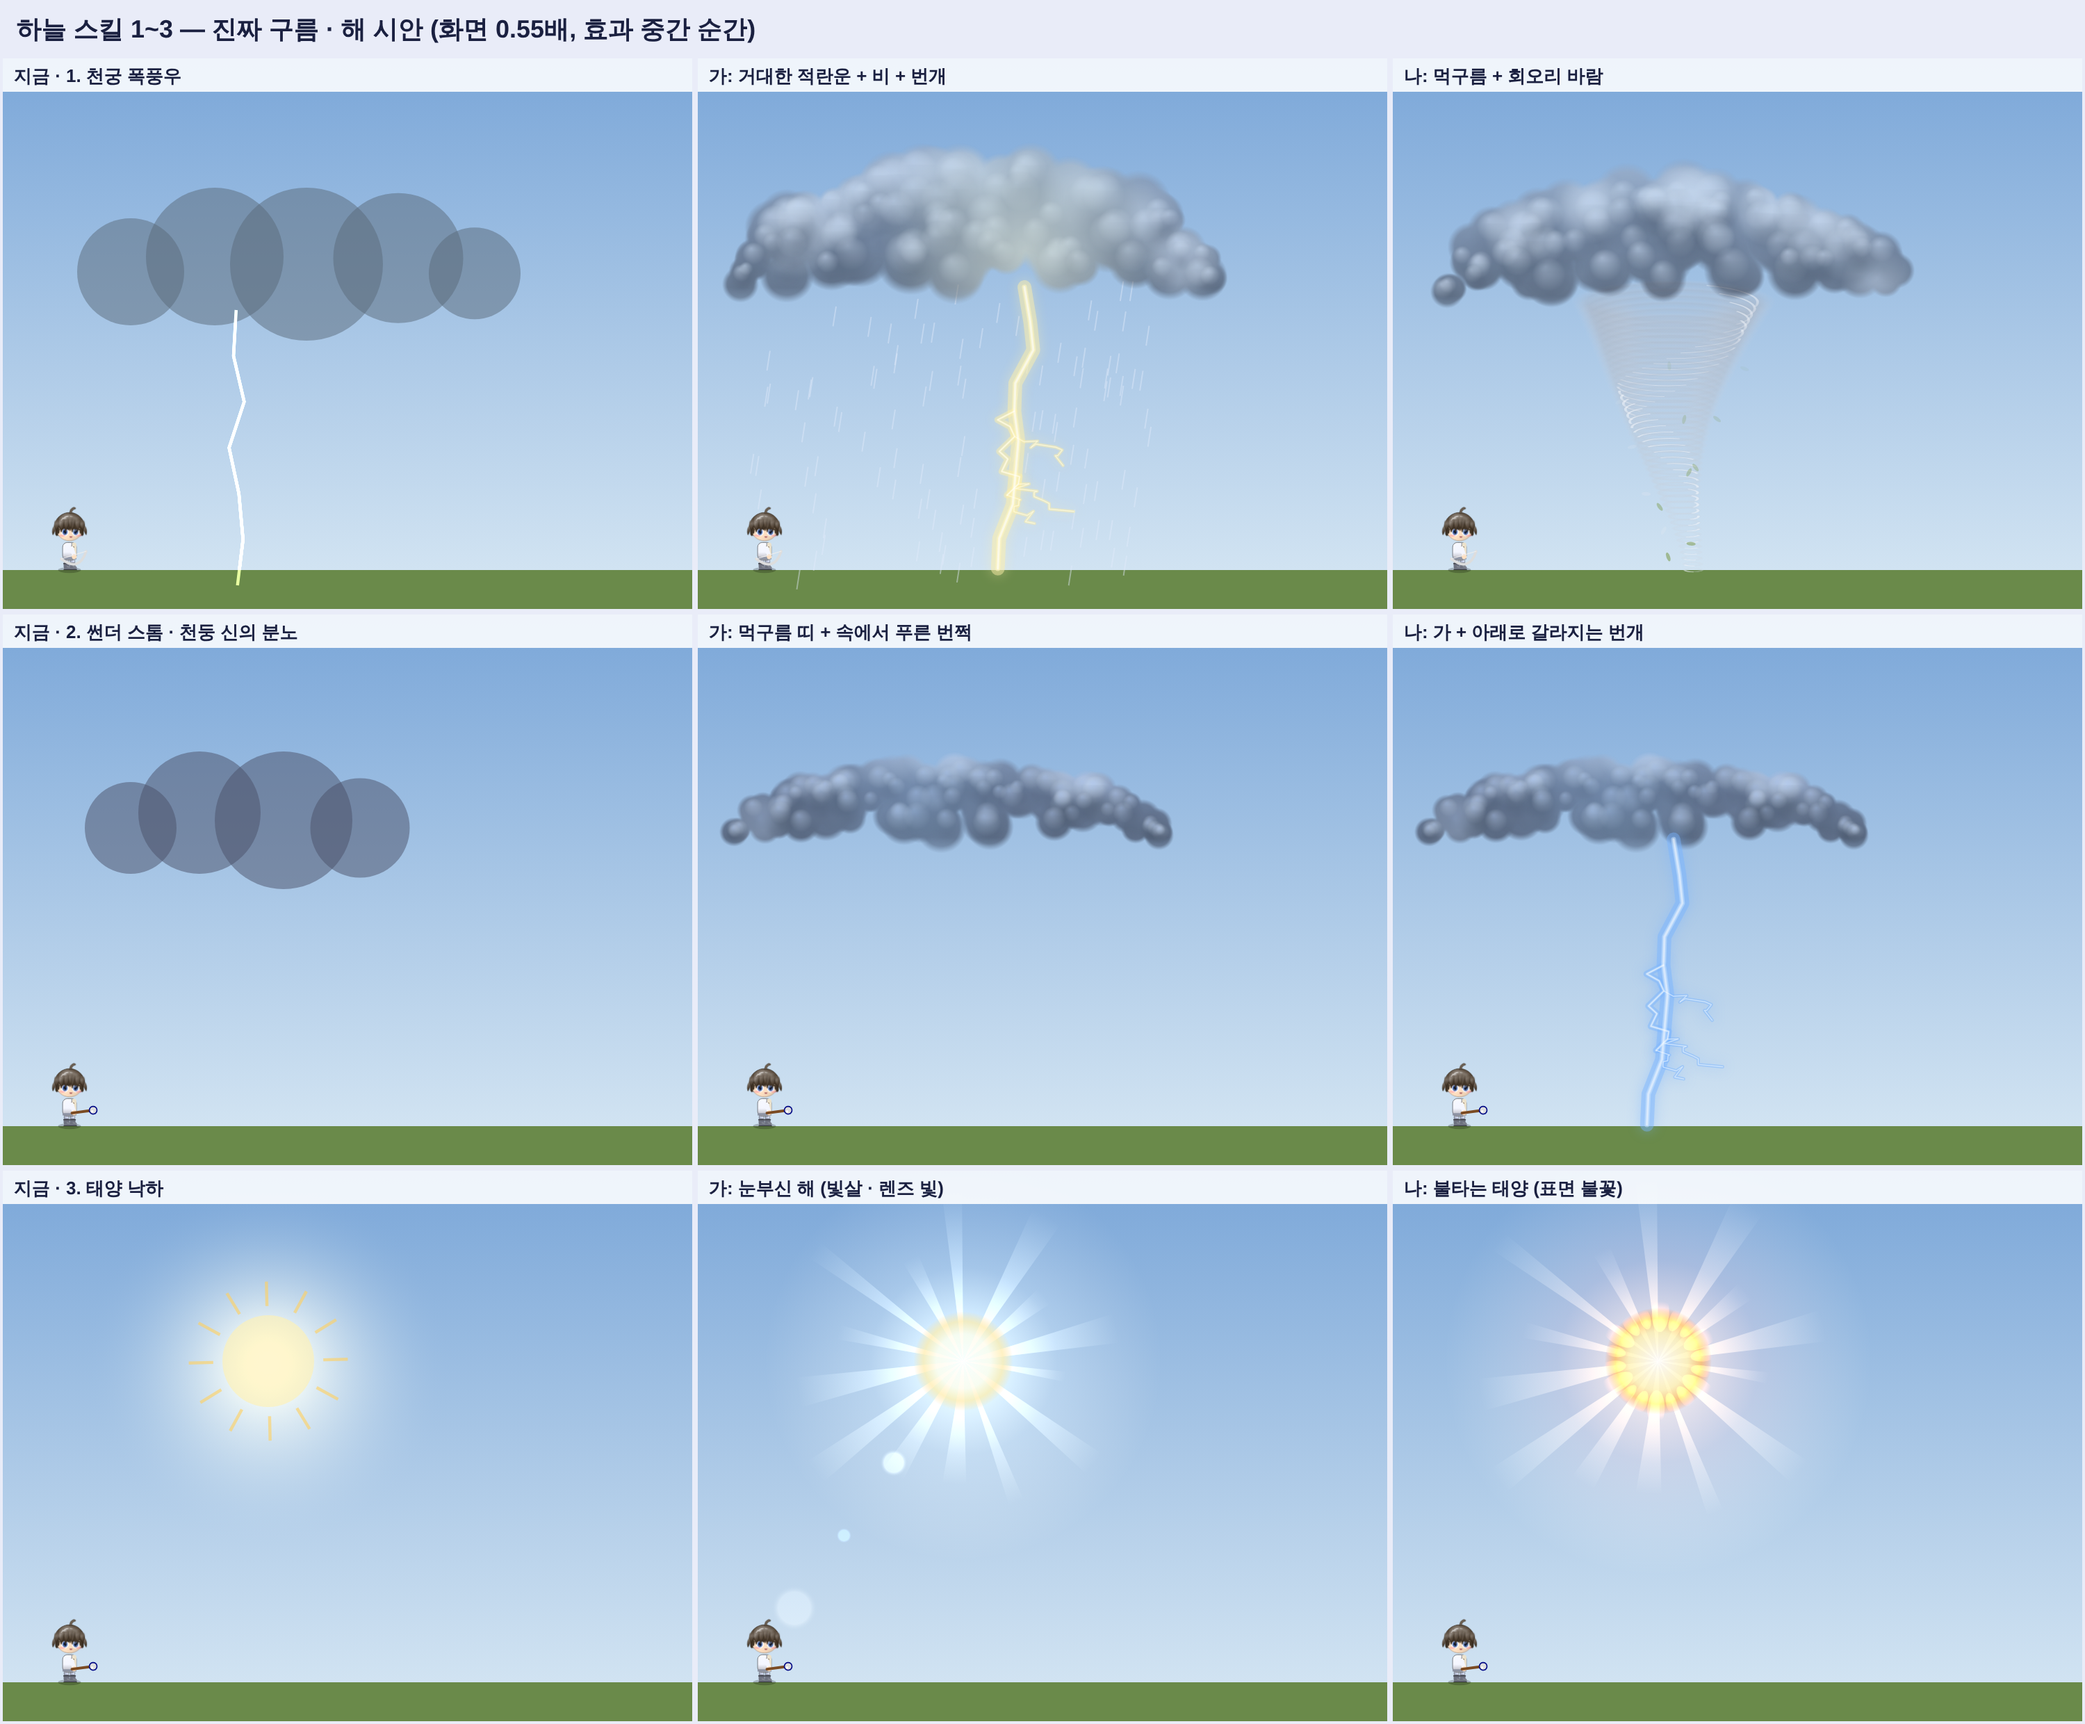
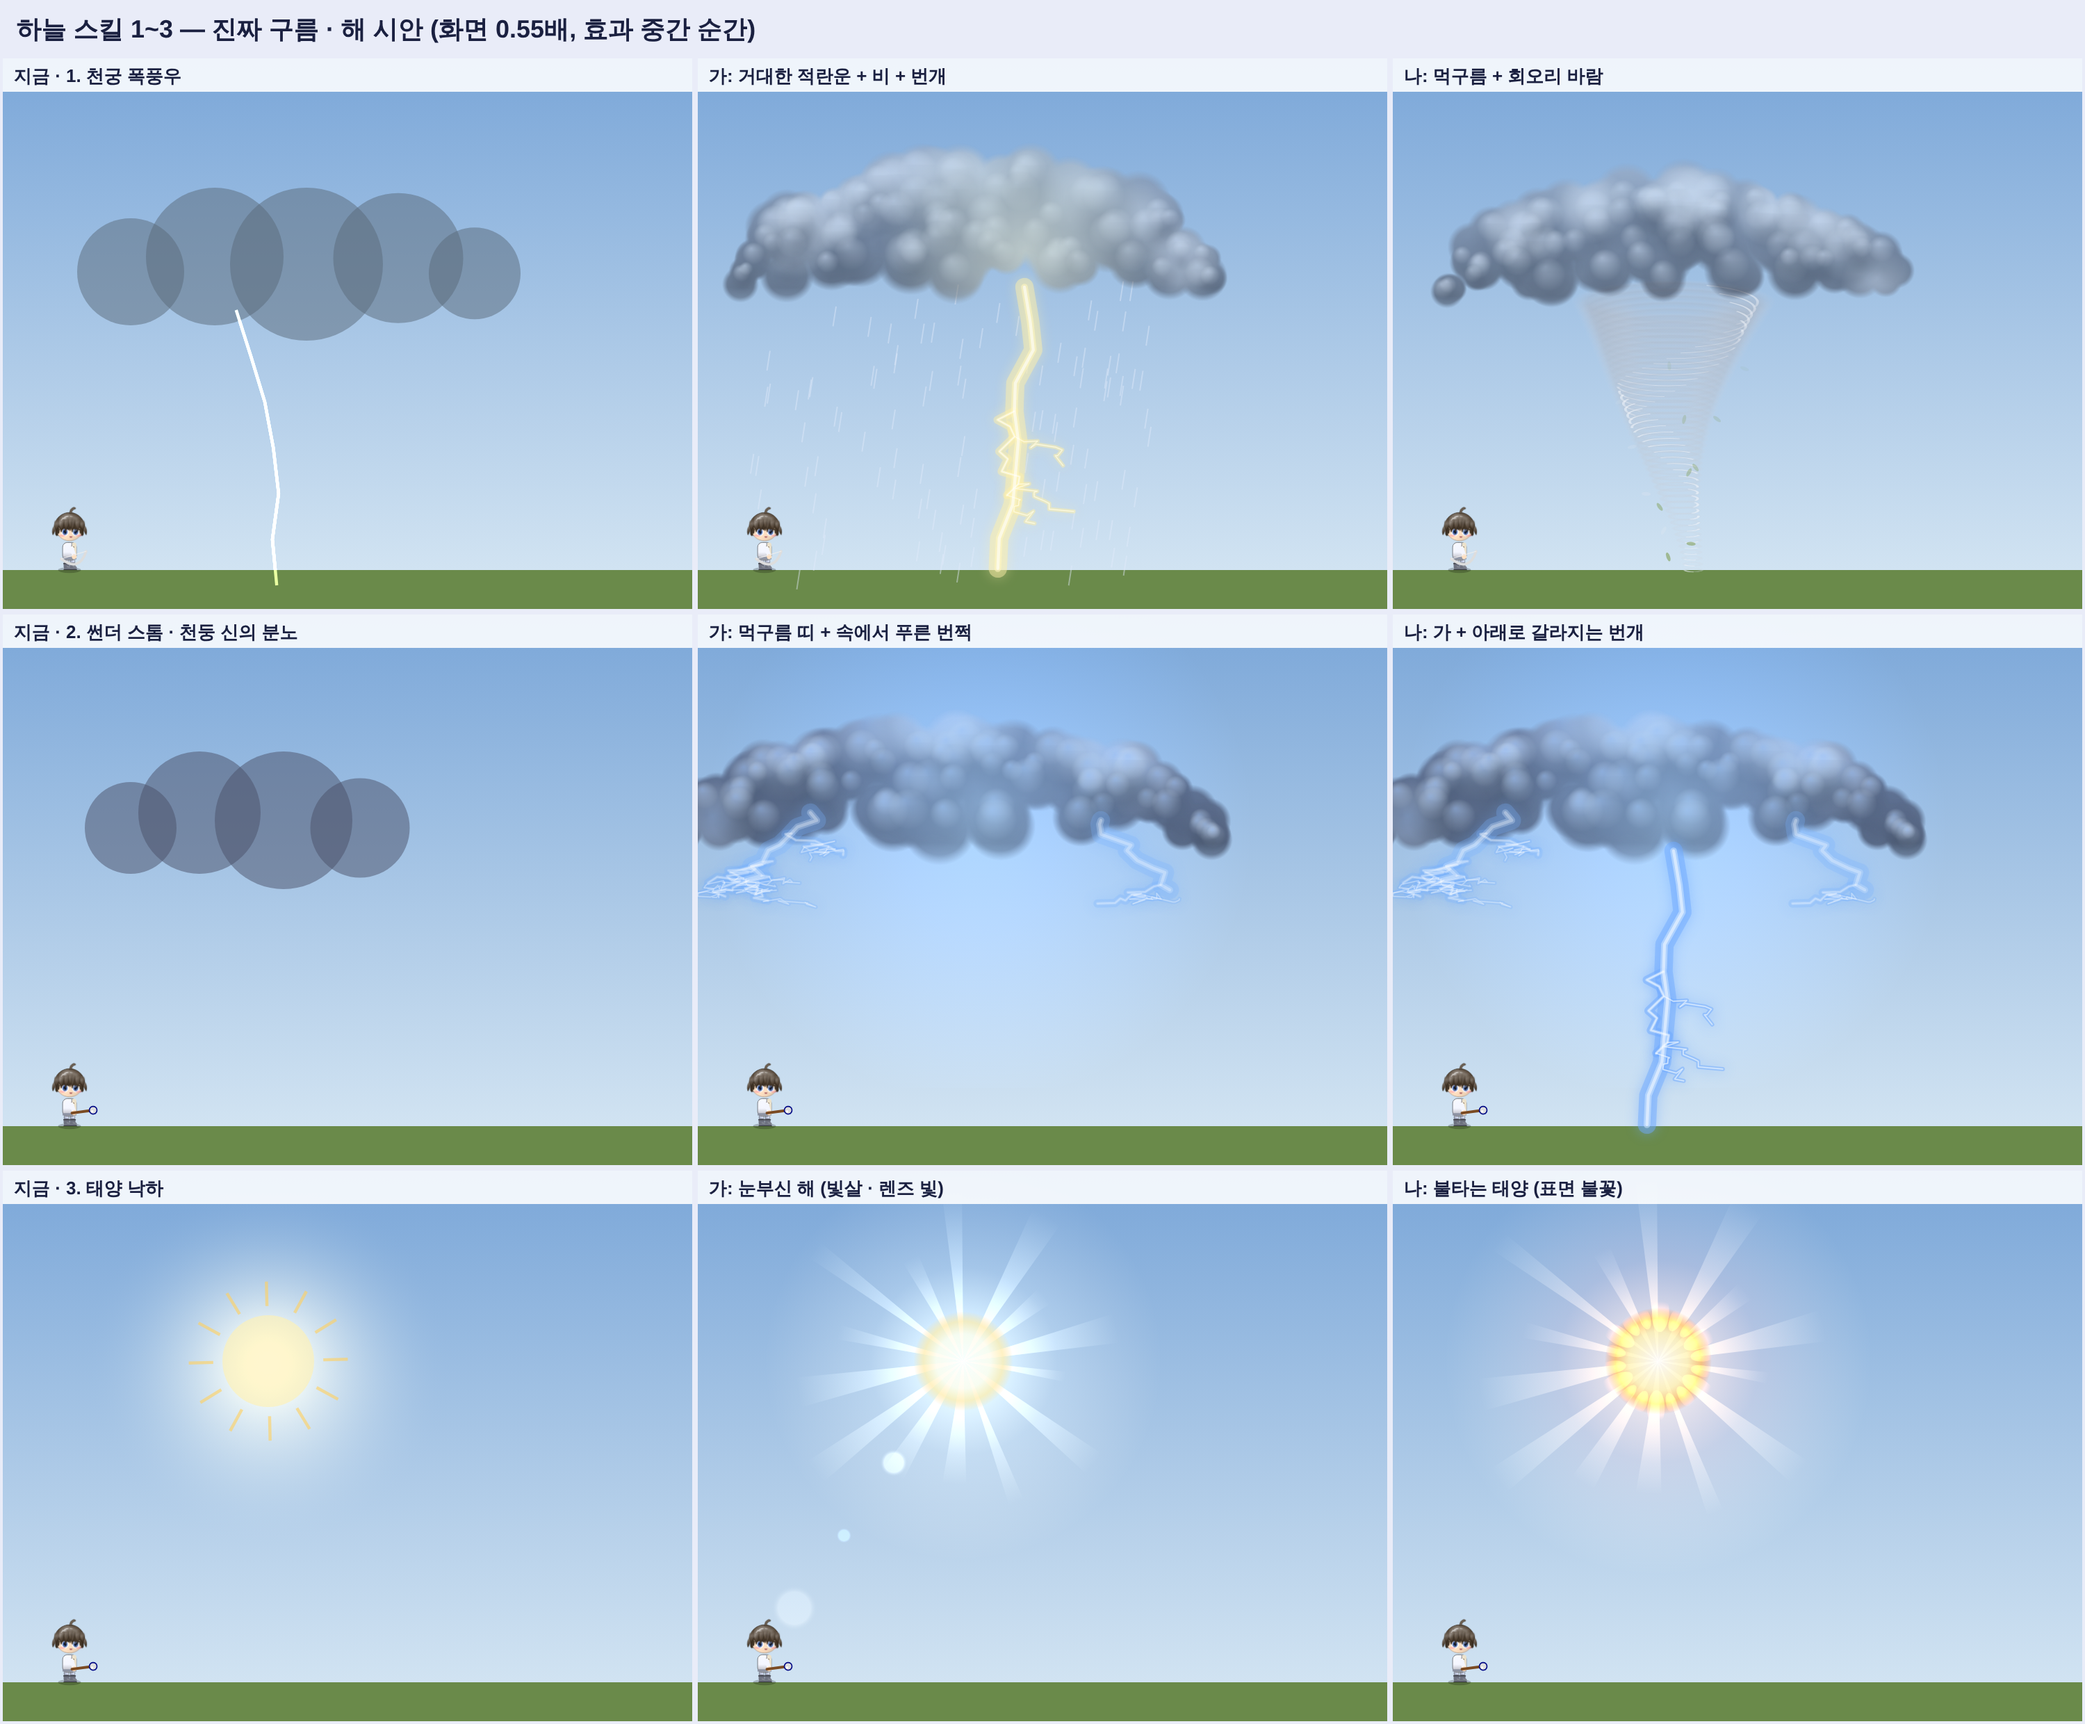
시안: 하늘 스킬 2번 더 잘 보이게
Claude-Session: https://claude.ai/code/session_012Uzgs6nJ8nnZGaogUABhrm

Changed region(s): [[0.651, 0.4036, 0.93, 0.652], [0.31, 0.4036, 0.589, 0.5278], [0.093, 0.1863, 0.124, 0.2173]]

diff --git a/hannyomi/docs/drafts/design/sky_A/skyreal.js b/hannyomi/docs/drafts/design/sky_A/skyreal.js
@@ -29,7 +29,7 @@
   const boltPath = (x0, y0, x1, y1, seed, depth, out) => { const segs = 9; let px = x0, py = y0; const pts = [[px, py]];
     for (let i = 1; i <= segs; i++) { const u = i / segs; const nx = x0 + (x1 - x0) * u + (rnd(seed + i) - 0.5) * 46 * (1 - u * 0.4), ny = y0 + (y1 - y0) * u + (rnd(seed + i * 2) - 0.5) * 10; pts.push([nx, ny]);
       if (depth < 2 && rnd(seed + i * 9) > 0.72) boltPath(nx, ny, nx + (rnd(seed + i * 4) - 0.5) * 160, ny + (y1 - y0) * 0.3, seed + i * 31, depth + 1, out); }
-    out.push({ pts, w: depth ? 1.4 / depth : 3 }); };
+    out.push({ pts, w: depth ? 1.8 / depth : 4 }); };
   R.bolt = (c, x0, y0, x1, y1, seed, col, a) => { const out = []; boltPath(x0, y0, x1, y1, seed, 0, out); c.save(); c.globalAlpha *= a; c.lineCap = 'round'; c.lineJoin = 'round';
     for (const [m, cc] of [[6, col.glow], [2.2, col.core], [1, '#ffffff']]) for (const b of out) { c.strokeStyle = cc; c.lineWidth = b.w * m; if (m === 6) { c.shadowColor = col.glow; c.shadowBlur = 18; } else c.shadowBlur = 0; c.beginPath(); b.pts.forEach(([x, y], i) => i ? c.lineTo(x, y) : c.moveTo(x, y)); c.stroke(); } c.restore(); };
   R.rain = (c, x, y, w, h, t, col, a) => { c.save(); c.globalAlpha *= a; c.strokeStyle = col; c.lineWidth = 1.8; for (let i = 0; i < 110; i++) { const u = rnd(i * 1.7), sp = 0.8 + rnd(i * 2.3) * 0.4, yy = ((t * 900 * sp + rnd(i * 3.9) * h) % h); const xx = x - w / 2 + u * w - yy * 0.15; c.beginPath(); c.moveTo(xx, y + yy); c.lineTo(xx - 4, y + yy + 26); c.stroke(); } c.restore(); };
@@ -64,10 +64,14 @@
     for (let i = 0; i < 14; i++) { const u = (t * 0.7 + i / 14) % 1, y = bot - u * 300, ang = t * 5 + i * 2, w = 120 * Math.pow(1 - (y - top) / (bot - top), 1.6) + 20; c.save(); c.globalAlpha = a * (1 - u); c.fillStyle = i % 3 ? '#7a9a4a' : '#d8e4f0'; c.translate(f.x + cos(ang) * w, y + sin(ang) * w * 0.2); c.rotate(ang); c.beginPath(); c.ellipse(0, 0, 6, 2.4, 0, 0, PI * 2); c.fill(); c.restore(); }
     c.restore(); R.cloud(c, f.x, f.y + 50, 600, 170, STORM, 21, t, { alpha: a * 0.97 }); };
   // 2 썬더 스톰 · 천둥 신의 분노
-  S.s2a = (c, f, k, t) => { const a = k < 0.15 ? k / 0.15 : (1 - k) / 0.85, fl = Math.floor(k * 14) % 4 < 1;   // 가: 낮게 깔린 먹구름 띠 + 속에서 푸른 번쩍
-    R.cloud(c, f.x, f.y + 30, 560, 150, STORM2, 5, t, { alpha: a, flat: 0.7, inner: (k2, cx, by, w, h) => { const fx2 = cx + (rnd(Math.floor(k * 14)) - 0.5) * w * 0.6; const g = k2.createRadialGradient(fx2, by - h * 0.25, 0, fx2, by - h * 0.25, h * 0.9); g.addColorStop(0, `rgba(150,200,255,${fl ? 0.85 : 0.25})`); g.addColorStop(1, 'rgba(150,200,255,0)'); k2.fillStyle = g; k2.fillRect(0, 0, k2.canvas.width, k2.canvas.height); } }); };
-  S.s2b = (c, f, k, t) => { S.s2a(c, f, k, t); const a = k < 0.15 ? k / 0.15 : (1 - k) / 0.85;   // 나: 가 + 구름 아래로 갈라지는 파란 번개 가지 (번개 발사체가 여기서 떨어짐)
-    R.bolt(c, f.x + 40, f.y + 25, f.x + 10, f.y + 400, 13, { glow: 'rgba(120,180,255,.9)', core: '#cfe6ff' }, a * (0.7 + 0.3 * sin(t * 30))); };
+  const STORM3 = { top: '#6a7090', mid: '#353a56', base: '#14162a', rim: 'rgba(170,200,255,.55)' };
+  S.s2a = (c, f, k, t) => { const a = k < 0.15 ? k / 0.15 : (1 - k) / 0.85, fl = 0.55 + 0.45 * Math.max(0, sin(t * 9)) ;   // 가: 크고 진한 먹구름 + 속 · 둘레가 푸르게 번쩍
+    const fx2 = f.x + 40;
+    c.save(); c.globalCompositeOperation = 'lighter'; const hg = c.createRadialGradient(fx2, f.y + 10, 0, fx2, f.y + 10, 360); hg.addColorStop(0, `rgba(90,150,255,${0.45 * fl * a})`); hg.addColorStop(1, 'rgba(90,150,255,0)'); c.fillStyle = hg; c.fillRect(f.x - 400, f.y - 350, 800, 700); c.restore();
+    R.cloud(c, f.x, f.y + 40, 700, 210, STORM3, 5, t, { alpha: a, flat: 0.8, inner: (k2, cx, by, w, h) => { const g = k2.createRadialGradient(cx + 40, by - h * 0.3, 0, cx + 40, by - h * 0.3, h * 1.1); g.addColorStop(0, `rgba(170,215,255,${0.9 * fl})`); g.addColorStop(1, 'rgba(150,200,255,0)'); k2.fillStyle = g; k2.fillRect(0, 0, k2.canvas.width, k2.canvas.height); } });
+    for (const [dx, dy, ex, ey, sd] of [[-180, -10, -260, 20, 3], [200, 0, 290, 30, 8]]) R.bolt(c, f.x + dx, f.y + dy, f.x + ex, f.y + ey + 60, sd, { glow: 'rgba(120,180,255,.9)', core: '#d8ecff' }, a * fl * 0.9); };
+  S.s2b = (c, f, k, t) => { S.s2a(c, f, k, t); const a = k < 0.15 ? k / 0.15 : (1 - k) / 0.85;   // 나: 가 + 아래로 굵게 갈라지는 파란 번개
+    R.bolt(c, f.x + 40, f.y + 40, f.x + 10, f.y + 400, 13, { glow: 'rgba(110,170,255,.95)', core: '#d8ecff' }, a * (0.75 + 0.25 * sin(t * 30))); };
   // 3 태양 낙하
   S.s3a = (c, f, k, t) => { const a = k < 0.2 ? k / 0.2 : (1 - k) / 0.8; c.save(); c.globalAlpha = a; R.sun(c, f.x, f.y, 52, t, false); R.flare(c, f.x, f.y, -260, 380, 1); c.restore(); };   // 가: 눈부신 한낮의 해
   S.s3b = (c, f, k, t) => { const a = k < 0.2 ? k / 0.2 : (1 - k) / 0.8; c.save(); c.globalAlpha = a; R.sun(c, f.x, f.y, 56, t, true); c.restore(); };   // 나: 불타는 태양 (표면 불꽃 · 붉은 코로나)

diff --git a/hannyomi/docs/drafts/design/sky_A/README.md b/hannyomi/docs/drafts/design/sky_A/README.md
@@ -18,3 +18,4 @@ skyfx_now.png (skyfx.js: skillx.js 의 FXS 를 그대로 불러 그림, 화면 0
 - 1 천궁 폭풍우: 가 거대한 적란운 + 비 + 번개 · 나 먹구름 + 회오리 바람 (잎 날림)
 - 2 썬더 스톰 · 천둥 신의 분노: 가 먹구름 띠 + 속에서 푸른 번쩍 · 나 가 + 아래로 갈라지는 파란 번개
 - 3 태양 낙하: 가 눈부신 해 (빛살 · 렌즈 빛) · 나 불타는 태양 (표면 불꽃 · 붉은 코로나)
+- 2번 수정: 잘 안 보임 → 구름 더 크고 진하게(700×210), 속 · 둘레 푸른 번쩍 + 바깥 빛, 구름 양옆 가지 번개, 번개 굵게 (sky1_row2.png)
